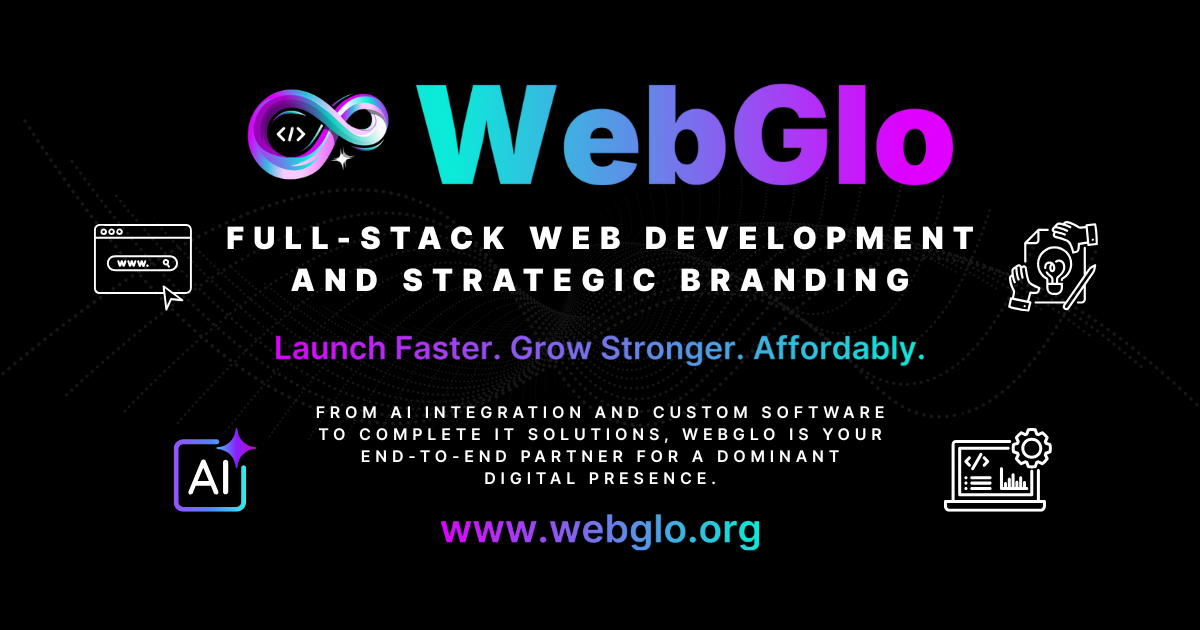
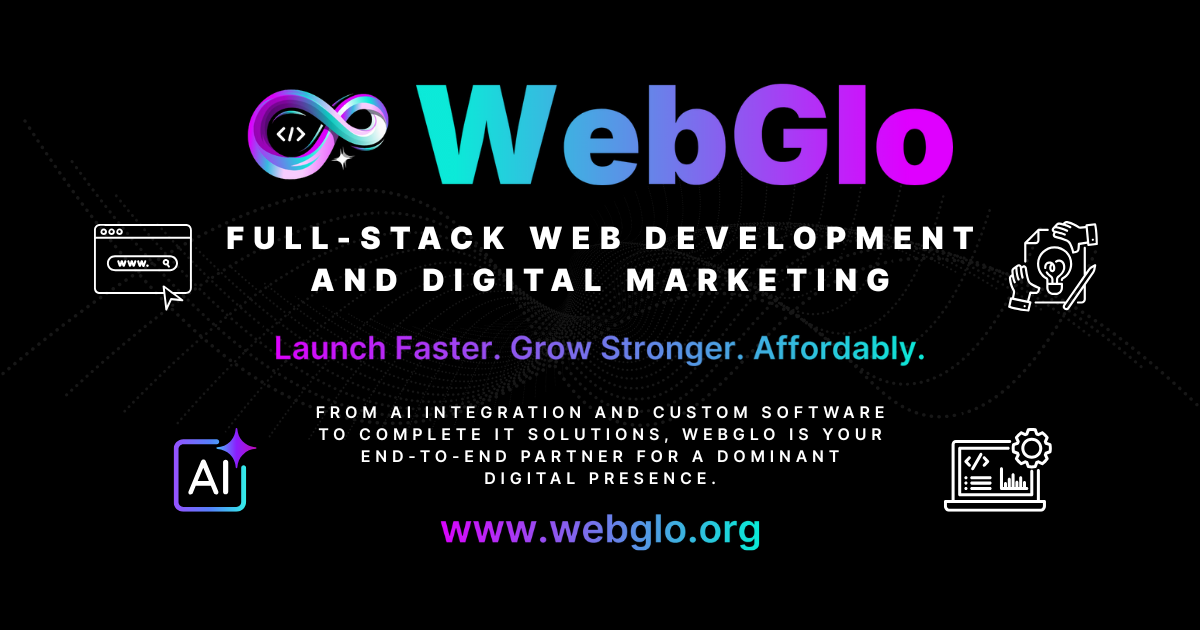
made some branding consistency changes.

Changed region(s): [[0.4625, 0.4222, 0.7708, 0.4825], [0.2467, 0.4222, 0.4317, 0.4825]]

diff --git a/index.html b/index.html
@@ -60,7 +60,7 @@
         </div>
         <!-- Headline -->
         <h1 class="text-5xl lg:text-7xl font-extrabold leading-tight mb-4 text-gray-900">
-          Full-Stack Web Development and Strategic Branding
+          Full-Stack Web Development and Digital Marketing
         </h1>
         <!-- Tagline -->
         <h2 class="text-3xl lg:text-5xl font-bold mb-6 leading-[1.25] pb-2 bg-gradient-to-r from-[#df00ff] to-[#0cead9] bg-clip-text text-transparent">
